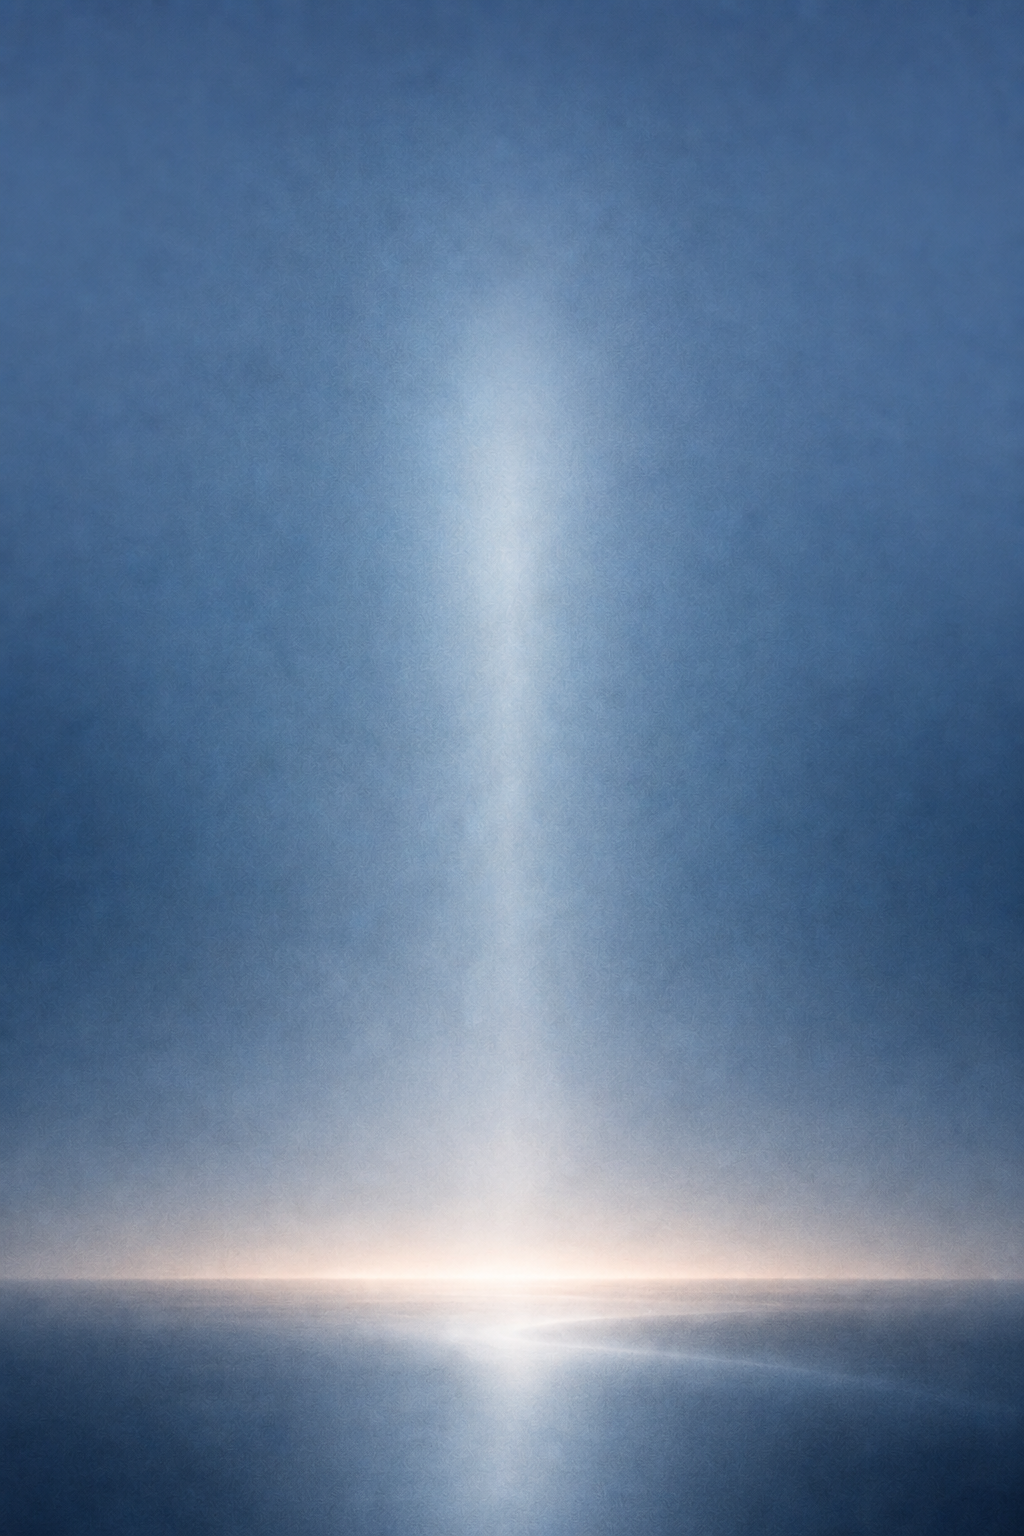
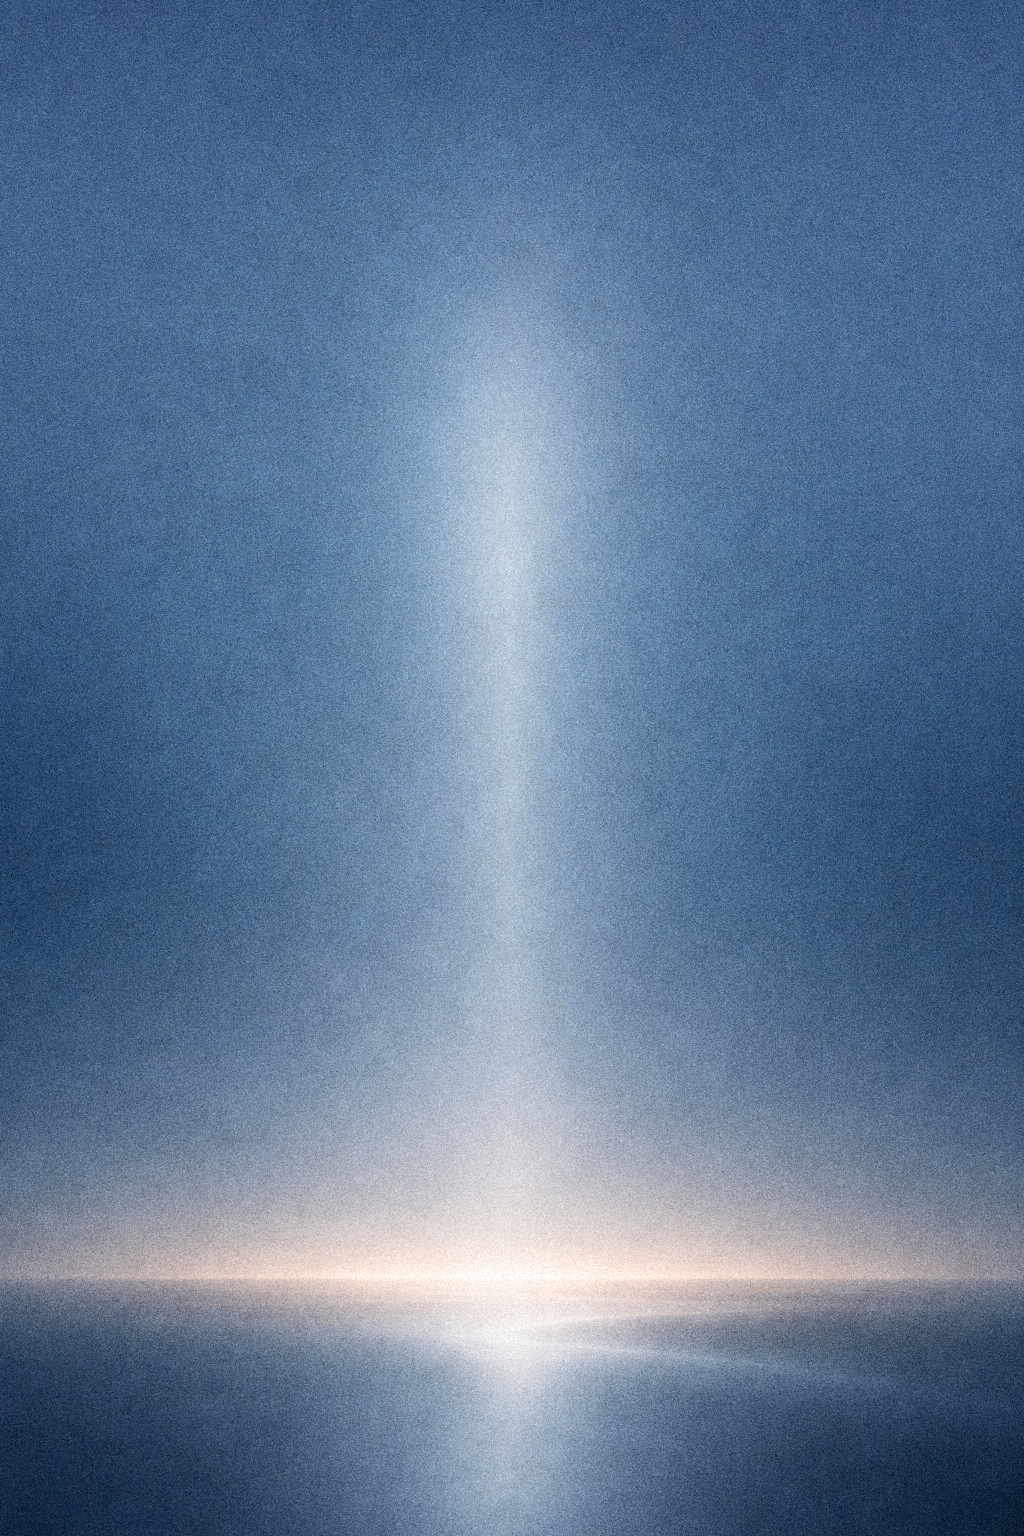
Поправлен фон, добавлена задержка прокрутки для анимаций

diff --git a/script.js b/script.js
@@ -8,6 +8,123 @@
     const locationSection = document.querySelector('.location');
     const scheduleSection = document.querySelector('.schedule');
 
+    const SNAKE_DRAW_MS = 2800;
+    const SNAKE_ITEM_FADE_MS = 650;
+    /** Longest location expand transition (arc/details ≈ 2.15s). */
+    const LOCATION_EXPAND_MS = 2200;
+    const CENTER_BAND = 0.12;
+    const SCROLL_LOCK_KEYS = new Set([
+        'ArrowUp',
+        'ArrowDown',
+        'ArrowLeft',
+        'ArrowRight',
+        'PageUp',
+        'PageDown',
+        'Home',
+        'End',
+        ' ',
+        'Spacebar',
+    ]);
+
+    let scrollLockCount = 0;
+    let lockedScrollY = 0;
+    let locationExpandedAt = null;
+    let scheduleInView = false;
+
+    function preventScrollEvent(event) {
+        event.preventDefault();
+    }
+
+    function preventScrollKey(event) {
+        if (!SCROLL_LOCK_KEYS.has(event.key)) return;
+        event.preventDefault();
+    }
+
+    function getFocusEl(section, selector) {
+        if (!section) return null;
+        return section.querySelector(selector) || section;
+    }
+
+    function getScrollYToAlign(el, align) {
+        const rect = el.getBoundingClientRect();
+        const scrollY = window.scrollY || window.pageYOffset || 0;
+        const vh = window.innerHeight || 1;
+        return Math.max(0, Math.round(rect.top + scrollY + rect.height / 2 - vh * align));
+    }
+
+    function hasReachedAlign(el, align) {
+        if (!el) return false;
+        const rect = el.getBoundingClientRect();
+        const vh = window.innerHeight || 1;
+        const center = rect.top + rect.height / 2;
+        return center <= vh * align + vh * CENTER_BAND;
+    }
+
+    function snapToAlign(el, align) {
+        const targetY = getScrollYToAlign(el, align);
+        const html = document.documentElement;
+        const prevBehavior = html.style.scrollBehavior;
+        html.style.scrollBehavior = 'auto';
+        window.scrollTo(0, targetY);
+        html.style.scrollBehavior = prevBehavior;
+        return targetY;
+    }
+
+    /** Scroll Y that frames el in the viewport: centered if it fits, else top-pinned. */
+    function getScrollYToFrame(el) {
+        if (!el) return window.scrollY || window.pageYOffset || 0;
+        const rect = el.getBoundingClientRect();
+        const scrollY = window.scrollY || window.pageYOffset || 0;
+        const vh = window.innerHeight || 1;
+        const top = rect.top + scrollY;
+        const height = rect.height;
+        if (height >= vh) {
+            return Math.max(0, Math.round(top));
+        }
+        return Math.max(0, Math.round(top - (vh - height) / 2));
+    }
+
+    function snapToScrollY(targetY) {
+        const html = document.documentElement;
+        const prevBehavior = html.style.scrollBehavior;
+        html.style.scrollBehavior = 'auto';
+        window.scrollTo(0, targetY);
+        html.style.scrollBehavior = prevBehavior;
+        return targetY;
+    }
+
+    function lockScroll(durationMs, scrollY) {
+        if (reduceMotion || durationMs <= 0) return;
+
+        if (scrollLockCount === 0) {
+            lockedScrollY =
+                scrollY != null ? scrollY : window.scrollY || window.pageYOffset || 0;
+            if (scrollY != null) {
+                const html = document.documentElement;
+                const prevBehavior = html.style.scrollBehavior;
+                html.style.scrollBehavior = 'auto';
+                window.scrollTo(0, lockedScrollY);
+                html.style.scrollBehavior = prevBehavior;
+            }
+            document.documentElement.classList.add('is-scroll-locked');
+            window.addEventListener('wheel', preventScrollEvent, { passive: false });
+            window.addEventListener('touchmove', preventScrollEvent, { passive: false });
+            window.addEventListener('keydown', preventScrollKey, { passive: false });
+        }
+
+        scrollLockCount += 1;
+
+        window.setTimeout(() => {
+            scrollLockCount = Math.max(0, scrollLockCount - 1);
+            if (scrollLockCount > 0) return;
+
+            document.documentElement.classList.remove('is-scroll-locked');
+            window.removeEventListener('wheel', preventScrollEvent);
+            window.removeEventListener('touchmove', preventScrollEvent);
+            window.removeEventListener('keydown', preventScrollKey);
+        }, durationMs);
+    }
+
     function showSnakeInstant() {
         if (!snake) return;
         snake.classList.add('is-drawn');
@@ -17,13 +134,15 @@
     function playSnake() {
         if (!snake || snake.dataset.played === '1') return;
         snake.dataset.played = '1';
-        snake.classList.add('is-drawn');
 
-        const durationMs = 2800;
+        const focus = getFocusEl(scheduleSection, '.snake') || snake;
+        const targetY = snapToAlign(focus, 0.5);
+        snake.classList.add('is-drawn');
+        lockScroll(SNAKE_DRAW_MS + SNAKE_ITEM_FADE_MS, targetY);
 
         snakeItems.forEach((item) => {
             const at = Number(item.dataset.at || 0);
-            const delay = (at / 100) * durationMs;
+            const delay = (at / 100) * SNAKE_DRAW_MS;
 
             window.setTimeout(() => {
                 item.classList.add('is-visible');
@@ -31,15 +150,14 @@
         });
     }
 
-    let locationExpandedAt = null;
-    let scheduleInView = false;
-    const SNAKE_SCROLL_AFTER_EXPAND = 160;
-
     function tryPlaySnake() {
         if (!scheduleSection || !scheduleSection.classList.contains('is-visible')) return;
         if (locationExpandedAt === null) return;
-        const scrollY = window.scrollY || window.pageYOffset || 0;
-        if (scrollY < locationExpandedAt + SNAKE_SCROLL_AFTER_EXPAND) return;
+        if (scrollLockCount > 0) return;
+        if (snake && snake.dataset.played === '1') return;
+
+        const focus = getFocusEl(scheduleSection, '.snake');
+        if (!hasReachedAlign(focus, 0.5)) return;
         playSnake();
     }
 
@@ -52,26 +170,34 @@
 
     function expandLocation(el) {
         if (!el || el.classList.contains('is-expanded')) return;
+
         el.classList.add('is-expanded');
-        if (locationExpandedAt === null) {
+
+        if (!reduceMotion) {
+            const focus = getFocusEl(el, '.location-stage');
+            // Frame the stage (not the padded section) so the top stays visible.
+            const targetY = snapToScrollY(getScrollYToFrame(focus));
+            lockScroll(LOCATION_EXPAND_MS, targetY);
+            if (locationExpandedAt === null) {
+                locationExpandedAt = targetY;
+            }
+        } else if (locationExpandedAt === null) {
             locationExpandedAt = window.scrollY || window.pageYOffset || 0;
         }
+
         revealSchedule();
     }
 
     function updateLocationExpand() {
         if (!locationSection || reduceMotion) return;
+        if (locationSection.classList.contains('is-expanded')) return;
 
-        const rect = locationSection.getBoundingClientRect();
-        const vh = window.innerHeight || 1;
-        const start = vh * 0.48;
-        const end = vh * 0.18;
-        let progress = (start - rect.top) / (start - end);
-        progress = Math.max(0, Math.min(1, progress));
-
-        if (progress >= 0.55) {
-            expandLocation(locationSection);
-        }
+        const focus = getFocusEl(locationSection, '.location-stage');
+        const targetY = getScrollYToFrame(focus);
+        const scrollY = window.scrollY || window.pageYOffset || 0;
+        // Start only once the stage is already at the frame position — no big jump.
+        if (scrollY + 1 < targetY) return;
+        expandLocation(locationSection);
     }
 
     if (reduceMotion) {

diff --git a/styles.css b/styles.css
@@ -33,6 +33,20 @@
 html {
     scroll-behavior: smooth;
     overflow-x: hidden;
+    scrollbar-width: none;
+}
+
+html::-webkit-scrollbar {
+    display: none;
+    width: 0;
+    height: 0;
+}
+
+html.is-scroll-locked,
+html.is-scroll-locked body {
+    overflow: hidden;
+    overscroll-behavior: none;
+    touch-action: none;
 }
 
 body {
